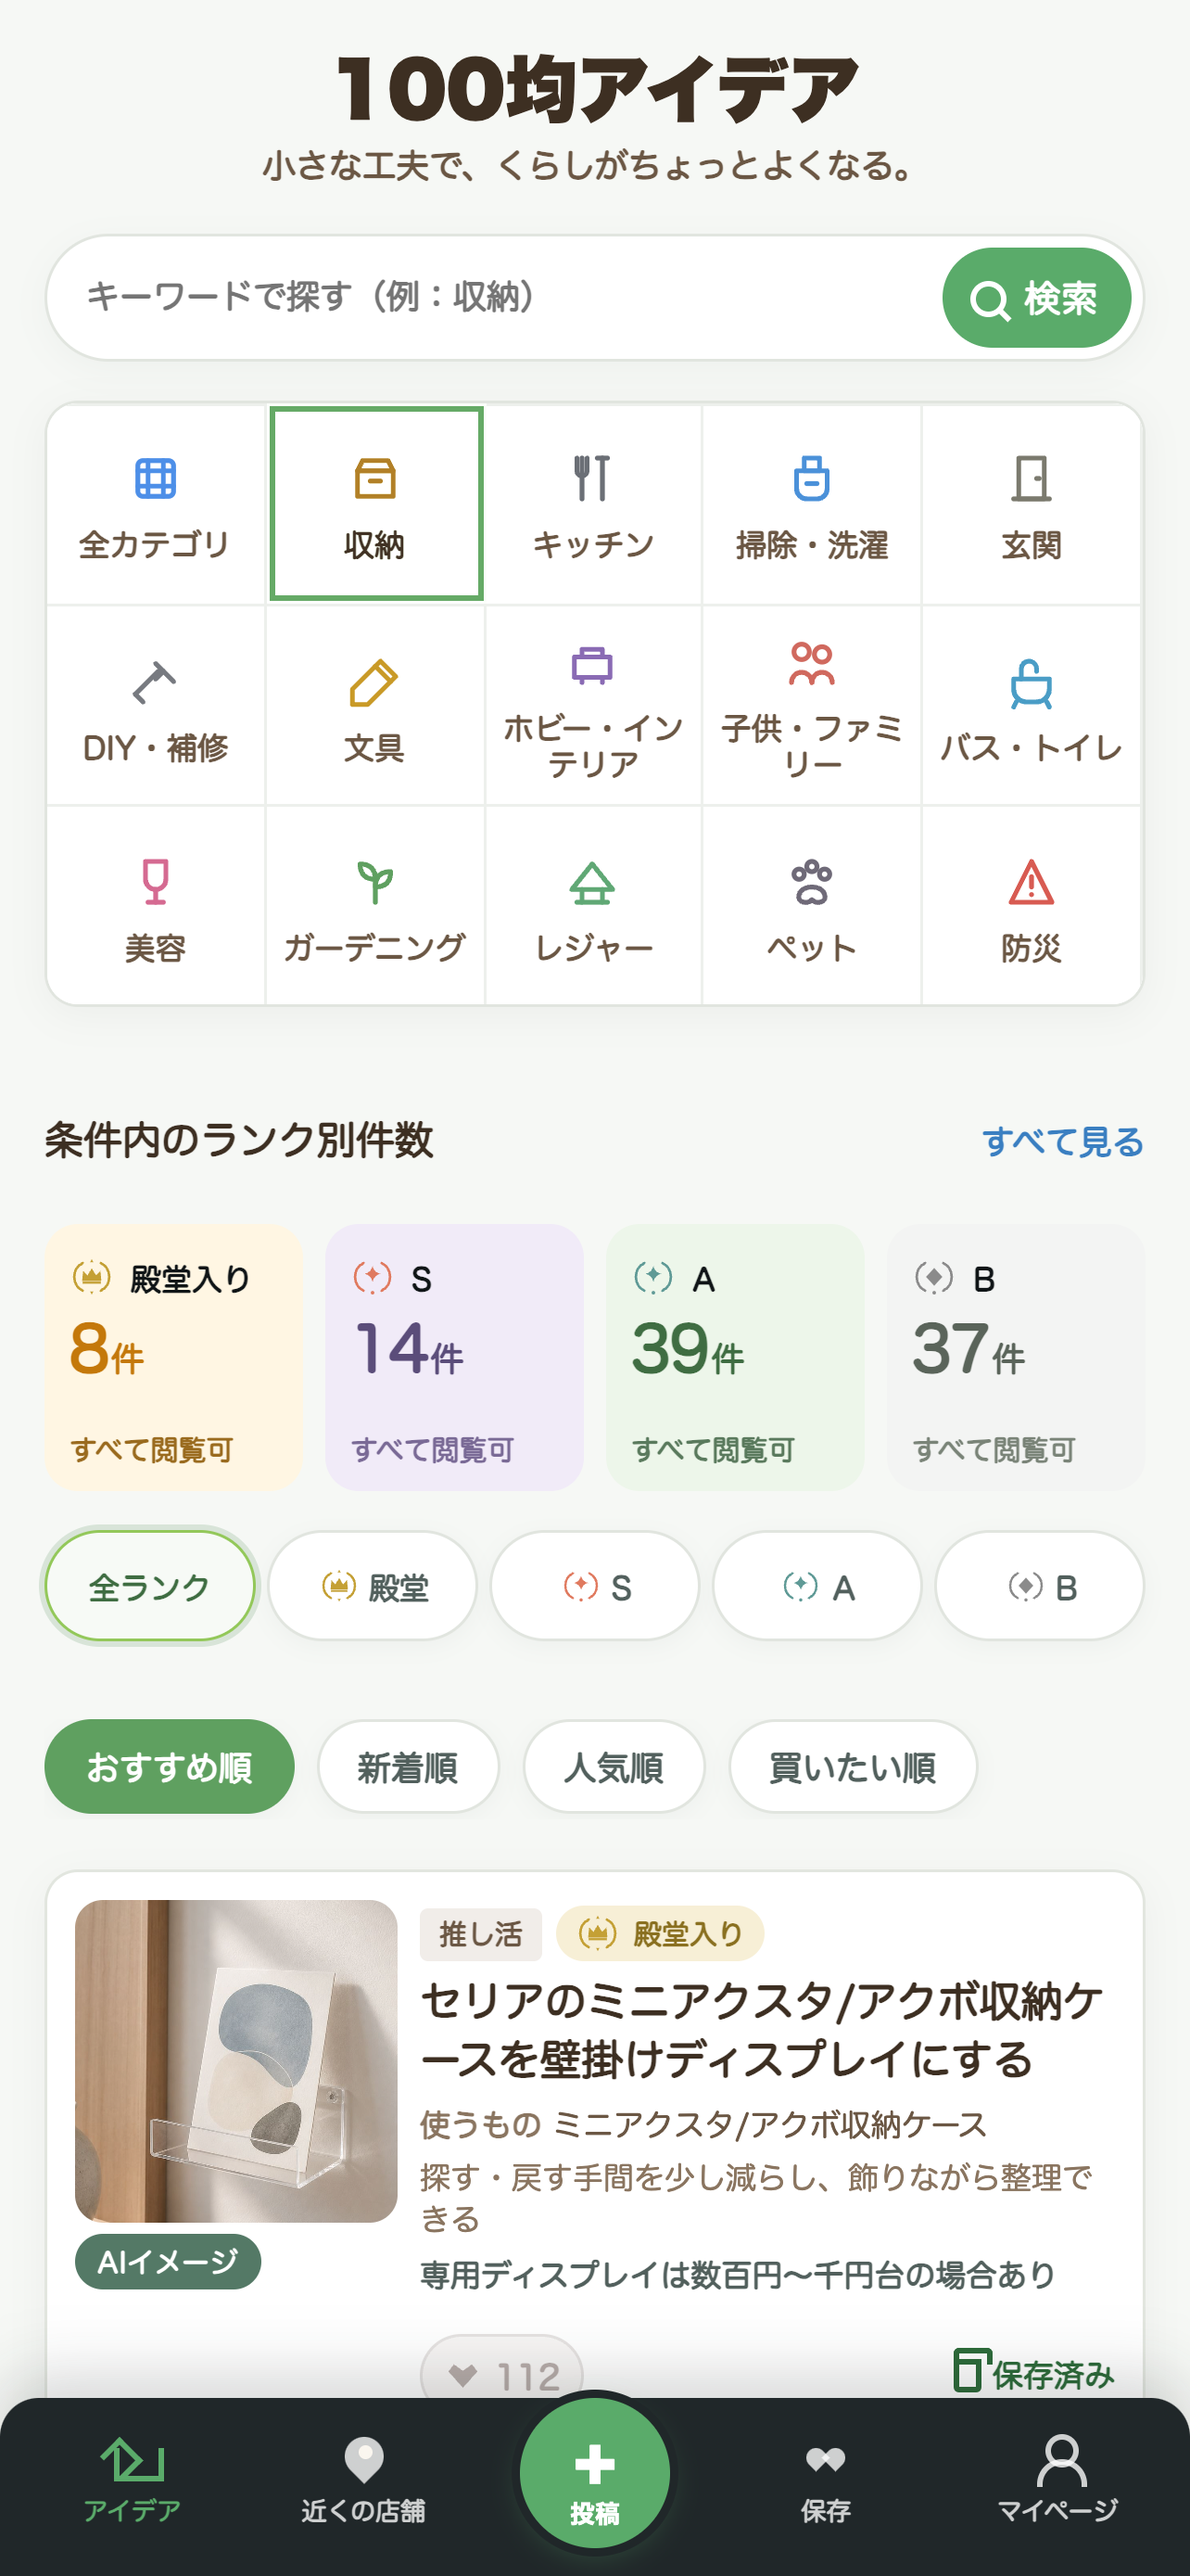
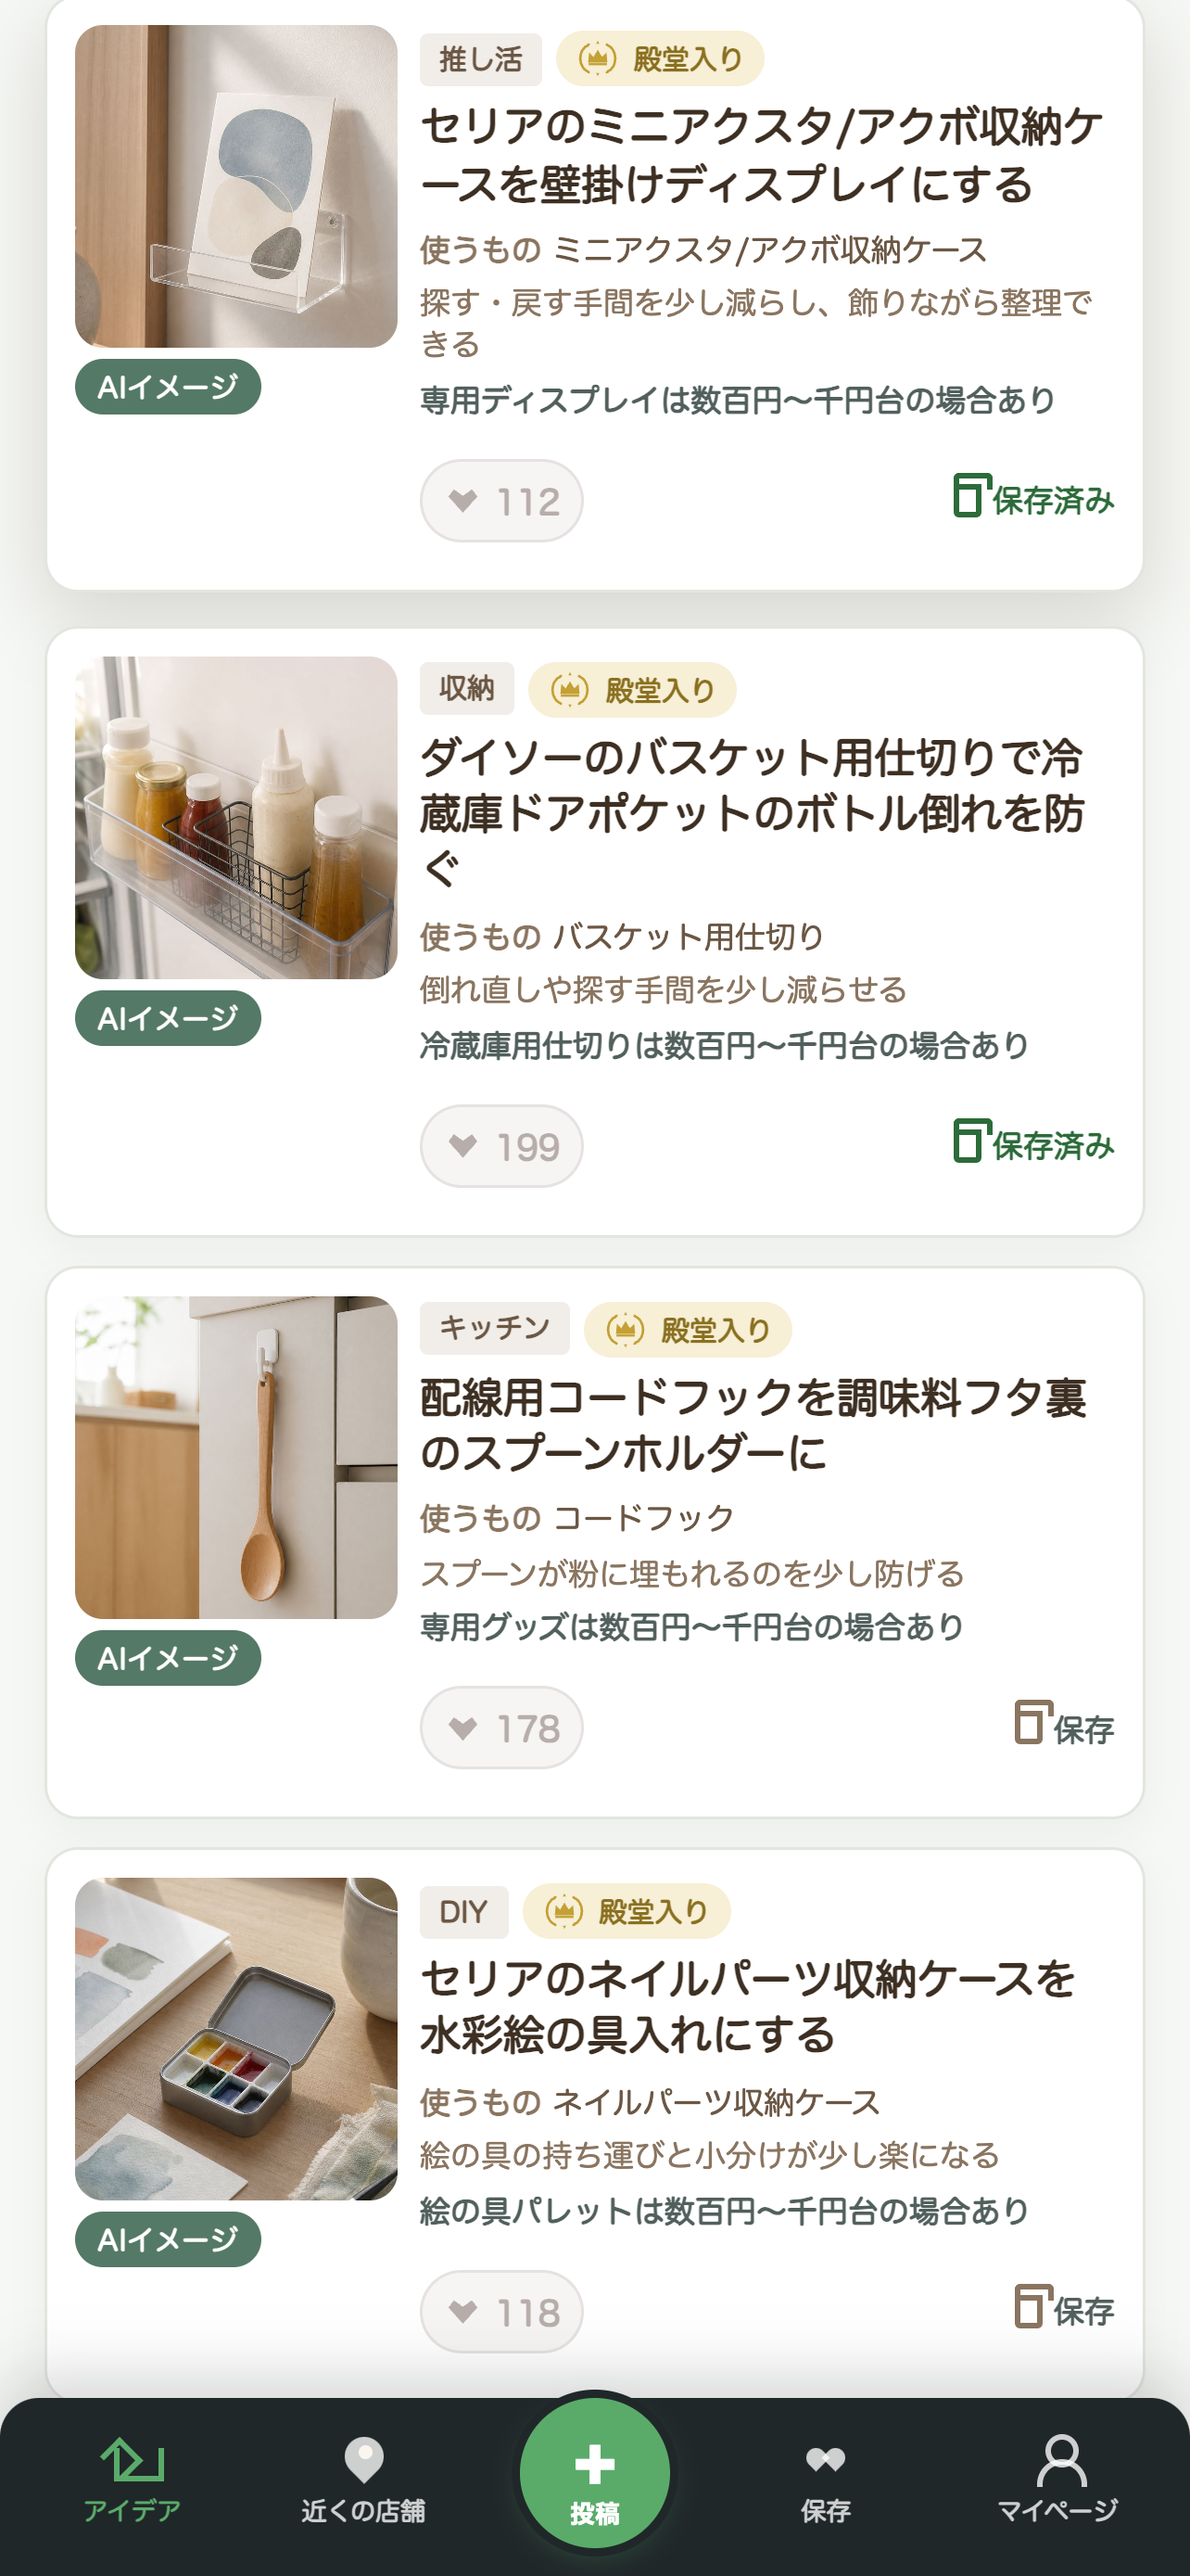
Make the hero read as three phones, not three cropped rectangles
The frames were a pale grey outline at three different sizes, so the stack read
as mismatched cards rather than devices, and the two rear phones sat under the
centre one with barely a sliver showing. All three are now one size in a dark
bezel with an island and a real drop shadow, and the rear two are placed by
formula at 60% reveal, which holds at every breakpoint.

Left and centre were also near-identical captures of the same home screen down
to the same idea card. The left phone now shows the store list and the right a
scrolled run of idea cards — and they are on those sides deliberately: the
store rows are left-weighted, so that screen only survives being clipped from
the right.

The feature cards had portrait screenshots squeezed into 4:3 boxes, which left
a horizontal band of pixels. Each card keeps its size and now holds a small
phone that bleeds past the bottom edge.

Changed region(s): [[0.0312, 0.0, 0.9657, 0.9287], [0.6542, 0.6811, 0.7788, 0.712], [0.8411, 0.6501, 0.9346, 0.6811]]

diff --git a/css/hyakkin-ideas.css b/css/hyakkin-ideas.css
@@ -164,32 +164,61 @@
   text-align: center;
 }
 
+/*
+ * 3台は同じ寸法にする（大きさ違いは端末の作り分けに見えてしまう）。
+ * 奥行きは影と縦オフセットだけで出す。
+ * 左右は「幅の6割が中央の外に出る」位置に固定する。中央幅の半分＋0.6幅ぶん
+ * 外側へ置けば、重なりが常に4割になる。stack幅は 2.2 × 端末幅で過不足なし。
+ */
 .hyakkin-page .hk-phone-stack {
+  --hk-phone-w: 200px;
+  --hk-phone-h: 428px;
+  --hk-phone-radius: 38px;
+  --hk-phone-pad: 10px;
+  --hk-phone-pad-top: 24px;
+  --hk-island-h: 9px;
+  --hk-side-top: 34px;
+
   position: relative;
   z-index: 2;
-  width: 420px;
+  width: calc(var(--hk-phone-w) * 2.2);
   max-width: 100%;
-  height: 470px;
+  height: calc(var(--hk-phone-h) + var(--hk-side-top) + 8px);
   margin: 0 auto;
 }
 
 .hyakkin-page .hk-phone {
   position: absolute;
   box-sizing: border-box;
-  width: 178px;
-  height: 364px;
-  border-radius: 30px;
-  background: #dfe6e1;
-  border: 1px solid rgba(70, 90, 75, 0.28);
-  box-shadow: var(--hk-shadow);
-  padding: 11px;
-  opacity: 1;
+  width: var(--hk-phone-w);
+  height: var(--hk-phone-h);
+  border-radius: var(--hk-phone-radius);
+  background: #1b1e1c;
+  padding: var(--hk-phone-pad-top) var(--hk-phone-pad) var(--hk-phone-pad);
+  box-shadow:
+    0 18px 36px rgba(38, 52, 41, 0.2),
+    0 5px 12px rgba(38, 52, 41, 0.12),
+    inset 0 0 0 1px rgba(255, 255, 255, 0.1);
+}
+
+/* Dynamic Island 相当。実スクショにステータスバーが無いので、上ベゼル内に置いて
+   アプリ側のヘッダーを隠さないようにする */
+.hyakkin-page .hk-phone::before {
+  content: "";
+  position: absolute;
+  top: calc((var(--hk-phone-pad-top) - var(--hk-island-h)) / 2);
+  left: 50%;
+  transform: translateX(-50%);
+  width: 30%;
+  height: var(--hk-island-h);
+  border-radius: 999px;
+  background: #0a0c0a;
 }
 
 .hyakkin-page .hk-phone-screen {
   width: 100%;
   height: 100%;
-  border-radius: 22px;
+  border-radius: calc(var(--hk-phone-radius) - var(--hk-phone-pad));
   overflow: hidden;
   background: #eef3ef;
 }
@@ -204,29 +233,25 @@
 }
 
 .hyakkin-page .hk-phone--left {
-  left: 14px;
-  top: 86px;
-  transform: translateX(-8px) scale(0.82);
+  left: calc(50% - var(--hk-phone-w) * 1.1);
+  top: var(--hk-side-top);
   z-index: 1;
 }
 
 .hyakkin-page .hk-phone--right {
-  right: 14px;
-  top: 86px;
-  transform: translateX(8px) scale(0.82);
+  left: calc(50% + var(--hk-phone-w) * 0.1);
+  top: var(--hk-side-top);
   z-index: 1;
 }
 
 .hyakkin-page .hk-phone--center {
-  left: 50%;
-  top: 4px;
-  width: 224px;
-  height: 458px;
-  margin-left: -112px;
+  left: calc(50% - var(--hk-phone-w) / 2);
+  top: 0;
   z-index: 3;
-  transform: none;
-  background: #d7e0da;
-  box-shadow: 0 28px 56px rgba(55, 70, 58, 0.18);
+  box-shadow:
+    0 30px 60px rgba(38, 52, 41, 0.28),
+    0 10px 22px rgba(38, 52, 41, 0.18),
+    inset 0 0 0 1px rgba(255, 255, 255, 0.12);
 }
 
 /* Placeholders */
@@ -341,10 +366,60 @@
   line-height: 1.35;
 }
 
+/*
+ * 縦長のスクショを 4:3 の枠へ直接入れると帯状に切れて何の画面か伝わらない。
+ * 枠の寸法は変えず、中に小さな端末を置いて上端から見せ、下は枠外へ逃がす。
+ */
 .hyakkin-page .hk-feature-media {
+  position: relative;
   aspect-ratio: 4 / 3;
   border-radius: 12px;
   border: 1px solid var(--hk-line);
+  overflow: hidden;
+  background:
+    radial-gradient(120% 90% at 50% 0%, rgba(255, 255, 255, 0.9), rgba(255, 255, 255, 0) 70%),
+    var(--hk-green-mist);
+  display: flex;
+  justify-content: center;
+  align-items: flex-start;
+}
+
+.hyakkin-page .hk-mini-phone {
+  --hk-mini-pad: 5px;
+  --hk-mini-pad-top: 12px;
+  --hk-mini-radius: 20px;
+
+  position: relative;
+  box-sizing: border-box;
+  width: 54%;
+  margin-top: 11%;
+  aspect-ratio: 200 / 428;
+  flex: none;
+  border-radius: var(--hk-mini-radius);
+  background: #1b1e1c;
+  padding: var(--hk-mini-pad-top) var(--hk-mini-pad) var(--hk-mini-pad);
+  box-shadow:
+    0 12px 24px rgba(38, 52, 41, 0.22),
+    inset 0 0 0 1px rgba(255, 255, 255, 0.1);
+}
+
+.hyakkin-page .hk-mini-phone::before {
+  content: "";
+  position: absolute;
+  top: calc((var(--hk-mini-pad-top) - 4px) / 2);
+  left: 50%;
+  transform: translateX(-50%);
+  width: 30%;
+  height: 4px;
+  border-radius: 999px;
+  background: #0a0c0a;
+}
+
+.hyakkin-page .hk-mini-screen {
+  display: block;
+  width: 100%;
+  height: 100%;
+  border-radius: calc(var(--hk-mini-radius) - var(--hk-mini-pad));
   overflow: hidden;
   background: #eef3ef;
 }
@@ -506,25 +581,12 @@ a.app-card-link:focus-visible {
   }
 
   .hyakkin-page .hk-phone-stack {
-    width: 340px;
-    height: 360px;
-  }
-
-  .hyakkin-page .hk-phone {
-    width: 132px;
-    height: 272px;
-  }
-
-  .hyakkin-page .hk-phone--center {
-    width: 168px;
-    height: 344px;
-    margin-left: -84px;
-    top: 6px;
-  }
-
-  .hyakkin-page .hk-phone--left,
-  .hyakkin-page .hk-phone--right {
-    top: 48px;
+    --hk-phone-w: 168px;
+    --hk-phone-h: 360px;
+    --hk-phone-radius: 32px;
+    --hk-phone-pad-top: 20px;
+    --hk-island-h: 8px;
+    --hk-side-top: 28px;
   }
 
   .hyakkin-page .hk-feature-grid {
@@ -550,25 +612,13 @@ a.app-card-link:focus-visible {
   }
 
   .hyakkin-page .hk-phone-stack {
-    width: 280px;
-    height: 300px;
-  }
-
-  .hyakkin-page .hk-phone {
-    width: 112px;
-    height: 230px;
-    border-radius: 22px;
-    padding: 8px;
-  }
-
-  .hyakkin-page .hk-phone-screen {
-    border-radius: 16px;
-  }
-
-  .hyakkin-page .hk-phone--center {
-    width: 146px;
-    height: 298px;
-    margin-left: -73px;
+    --hk-phone-w: 132px;
+    --hk-phone-h: 283px;
+    --hk-phone-radius: 26px;
+    --hk-phone-pad: 7px;
+    --hk-phone-pad-top: 16px;
+    --hk-island-h: 6px;
+    --hk-side-top: 22px;
   }
 
   .hyakkin-page .hk-feature-grid {

diff --git a/apps/100kin-ideas/index.html b/apps/100kin-ideas/index.html
@@ -82,14 +82,16 @@
 
           <div class="hk-hero-visual">
             <div class="hk-phone-stack" aria-hidden="true">
+              <!-- 左右は中央に4割隠れる。店舗画面は店名・距離が左寄せなので左に、
+                   活用術一覧はタイトルと本文が右側に続くので右に置く -->
               <div class="hk-phone hk-phone--left">
-                <div class="hk-phone-screen"><img src="/images/hyakkin/lp-shots/01-category-search.png" alt="用途・カテゴリから探している画面" width="428" height="926" loading="lazy" decoding="async"></div>
+                <div class="hk-phone-screen"><img src="/images/hyakkin/lp-shots/03-nearby-stores.png" alt="近くの店舗一覧" width="428" height="926" loading="lazy" decoding="async"></div>
               </div>
               <div class="hk-phone hk-phone--center">
                 <div class="hk-phone-screen"><img src="/images/hyakkin/lp-shots/02-home.png" alt="ホーム／活用術一覧" width="428" height="926" loading="eager" decoding="async"></div>
               </div>
               <div class="hk-phone hk-phone--right">
-                <div class="hk-phone-screen"><img src="/images/hyakkin/lp-shots/03-nearby-stores.png" alt="近くの店舗一覧" width="428" height="926" loading="lazy" decoding="async"></div>
+                <div class="hk-phone-screen"><img src="/images/hyakkin/lp-shots/01-category-search.png" alt="用途・カテゴリから探している画面" width="428" height="926" loading="lazy" decoding="async"></div>
               </div>
             </div>
             <p class="hk-status-line" aria-label="公開状況">Coming Soon ｜ iPhone ｜ Android</p>
@@ -112,7 +114,7 @@
                 </span>
               </div>
               <h3 class="hk-feature-name">活用術を探す</h3>
-              <div class="hk-feature-media"><img src="/images/hyakkin/lp-shots/04-feature-search.png" alt="活用術を探す画面" width="428" height="926" loading="lazy" decoding="async"></div>
+              <div class="hk-feature-media"><span class="hk-mini-phone"><span class="hk-mini-screen"><img src="/images/hyakkin/lp-shots/04-feature-search.png" alt="活用術を探す画面" width="428" height="926" loading="lazy" decoding="async"></span></span></div>
               <p class="hk-feature-text">収納・キッチン・掃除・DIYなど、用途やカテゴリからいろいろな活用術を探せます。</p>
             </article>
 
@@ -124,7 +126,7 @@
                 </span>
               </div>
               <h3 class="hk-feature-name">気になる活用術を保存</h3>
-              <div class="hk-feature-media"><img src="/images/hyakkin/lp-shots/05-feature-saved.png" alt="気になる活用術を保存した画面" width="428" height="926" loading="lazy" decoding="async"></div>
+              <div class="hk-feature-media"><span class="hk-mini-phone"><span class="hk-mini-screen"><img src="/images/hyakkin/lp-shots/05-feature-saved.png" alt="気になる活用術を保存した画面" width="428" height="926" loading="lazy" decoding="async"></span></span></div>
               <p class="hk-feature-text">あとで試したいアイデアを保存。買い物前や、実際に試したいときにすぐ見返せます。</p>
             </article>
 
@@ -136,7 +138,7 @@
                 </span>
               </div>
               <h3 class="hk-feature-name">自分の活用術を投稿</h3>
-              <div class="hk-feature-media"><img src="/images/hyakkin/lp-shots/06-feature-post.png" alt="自分の活用術を投稿する画面" width="428" height="926" loading="lazy" decoding="async"></div>
+              <div class="hk-feature-media"><span class="hk-mini-phone"><span class="hk-mini-screen"><img src="/images/hyakkin/lp-shots/06-feature-post.png" alt="自分の活用術を投稿する画面" width="428" height="926" loading="lazy" decoding="async"></span></span></div>
               <p class="hk-feature-text">あなたの「こんな使い方もできた」を投稿。ひとつのアイデアが、誰かの暮らしのヒントになります。</p>
             </article>
 
@@ -148,7 +150,7 @@
                 </span>
               </div>
               <h3 class="hk-feature-name">近くの100均を探す</h3>
-              <div class="hk-feature-media"><img src="/images/hyakkin/lp-shots/07-feature-nearby.png" alt="近くの100均を探す画面" width="428" height="926" loading="lazy" decoding="async"></div>
+              <div class="hk-feature-media"><span class="hk-mini-phone"><span class="hk-mini-screen"><img src="/images/hyakkin/lp-shots/07-feature-nearby.png" alt="近くの100均を探す画面" width="428" height="926" loading="lazy" decoding="async"></span></span></div>
               <p class="hk-feature-text">試してみたい活用術が見つかったら、現在地から近くの100均を探せます。</p>
             </article>
           </div>
